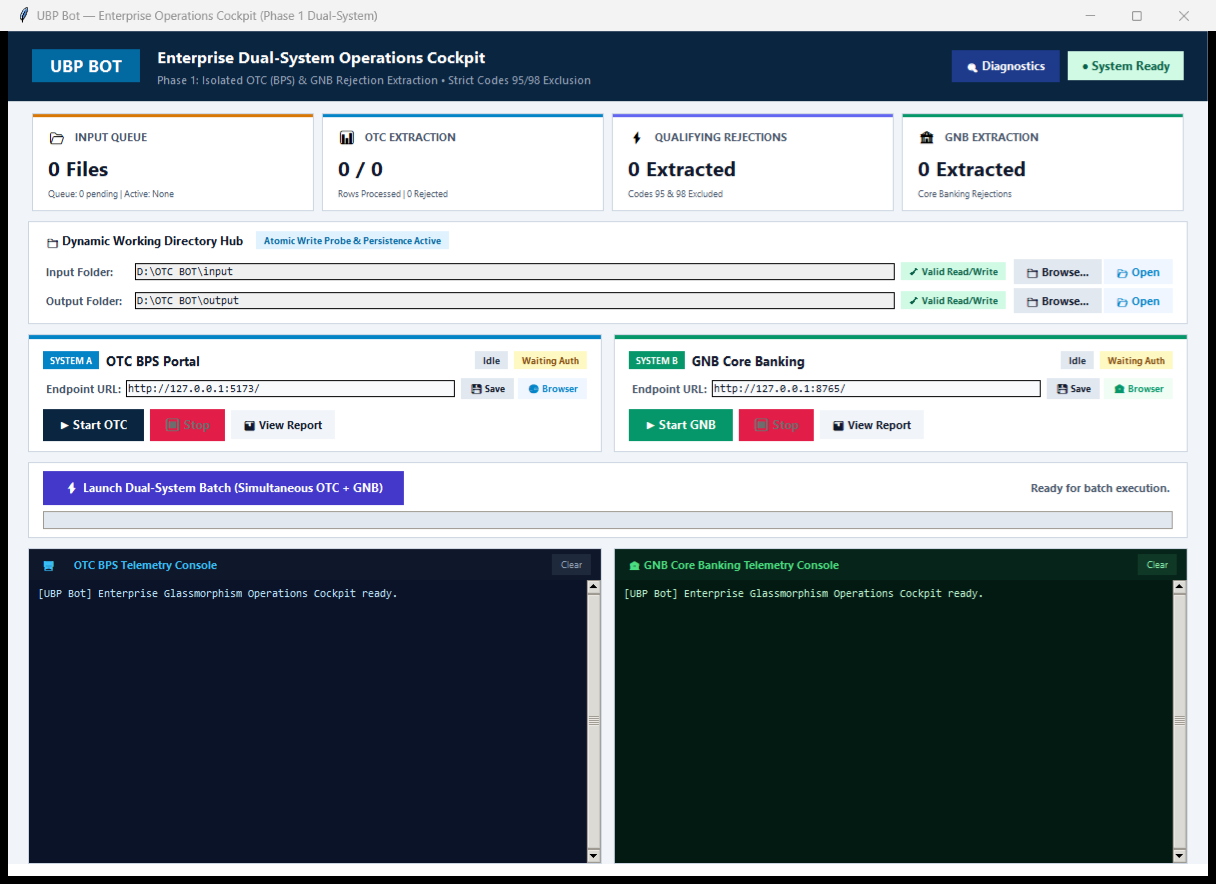
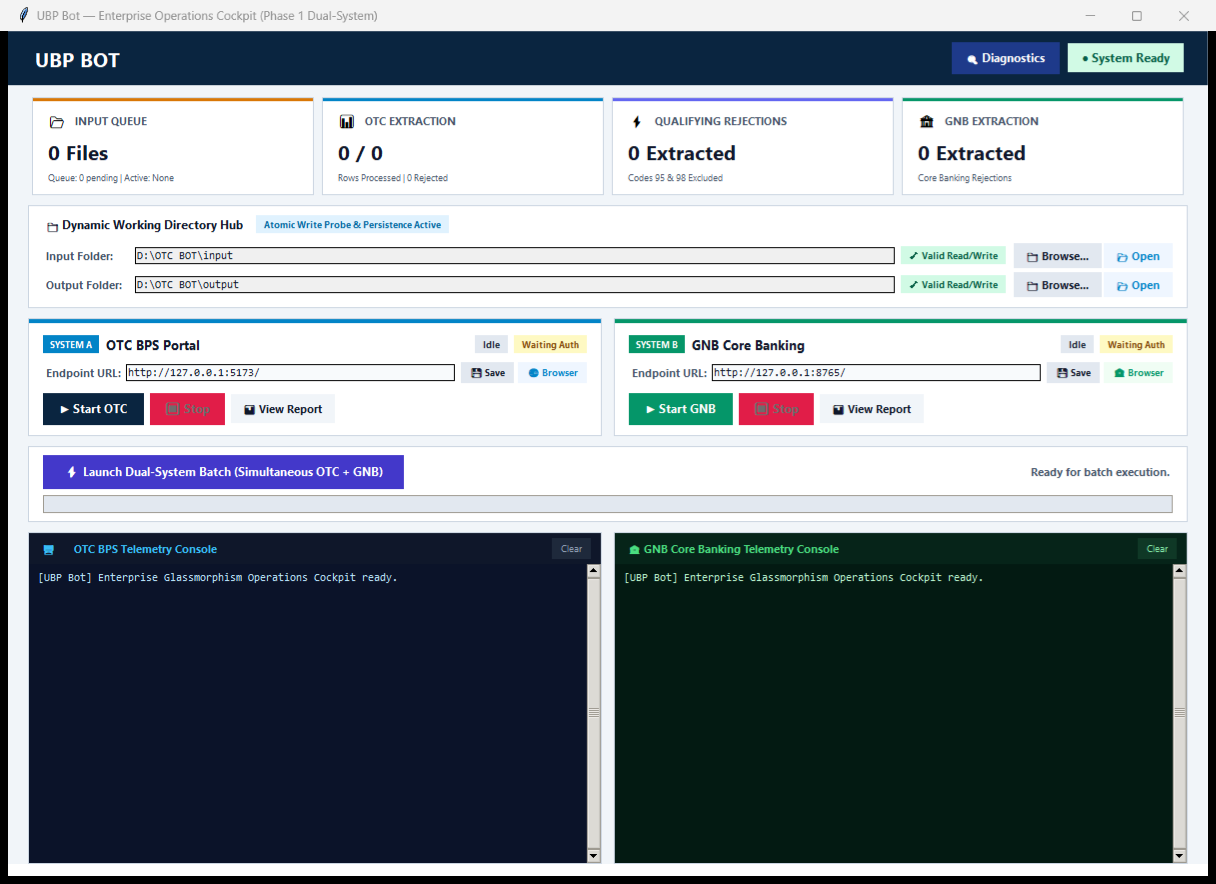
style(ui): simplify dashboard header to clean prominent UBP BOT title
- Remove long title 'Enterprise Dual-System Operations Cockpit' and subtitle
- Display only 'UBP BOT' in prominent 15pt bold typography
- Maintain compact, clean glassmorphism header aligned with design requirements
- Update after-redesign screenshot in docs/screenshots/

Changed region(s): [[0.0, 0.0305, 1.0, 0.6719]]

diff --git a/src/ubp_bot/ui/dashboard.py b/src/ubp_bot/ui/dashboard.py
@@ -130,48 +130,25 @@ def create_desktop_dashboard(config_path: Optional[Path] = None) -> tk.Tk:
     )
 
     # =========================================================================
-    # 1. ENTERPRISE GLASS NAVIGATION BAR (64px)
+    # 1. COMPACT ENTERPRISE HEADER
     # =========================================================================
-    navbar_outer = tk.Frame(root, bg="#071829", height=64)
+    navbar_outer = tk.Frame(root, bg="#071829")
     navbar_outer.pack(fill="x")
 
-    navbar = tk.Frame(navbar_outer, bg=PRIMARY_NAVY, padx=24, pady=12)
+    navbar = tk.Frame(navbar_outer, bg=PRIMARY_NAVY, padx=24, pady=10)
     navbar.pack(fill="x")
 
     nav_left = tk.Frame(navbar, bg=PRIMARY_NAVY)
     nav_left.pack(side="left")
 
-    logo_badge = tk.Label(
+    brand_lbl = tk.Label(
         nav_left,
-        text="  UBP BOT  ",
-        font=("Segoe UI", 13, "bold"),
-        fg="#FFFFFF",
-        bg="#0369A1",
-        padx=6,
-        pady=3,
-    )
-    logo_badge.pack(side="left")
-
-    title_box = tk.Frame(nav_left, bg=PRIMARY_NAVY)
-    title_box.pack(side="left", padx=14)
-
-    title_lbl = tk.Label(
-        title_box,
-        text="Enterprise Dual-System Operations Cockpit",
-        font=("Segoe UI", 12, "bold"),
+        text="UBP BOT",
+        font=("Segoe UI", 15, "bold"),
         fg="#FFFFFF",
         bg=PRIMARY_NAVY,
     )
-    title_lbl.pack(anchor="w")
-
-    subtitle_lbl = tk.Label(
-        title_box,
-        text="Phase 1: Isolated OTC (BPS) & GNB Rejection Extraction • Strict Codes 95/98 Exclusion",
-        font=("Segoe UI", 8),
-        fg="#94A3B8",
-        bg=PRIMARY_NAVY,
-    )
-    subtitle_lbl.pack(anchor="w")
+    brand_lbl.pack(side="left")
 
     nav_right = tk.Frame(navbar, bg=PRIMARY_NAVY)
     nav_right.pack(side="right")
